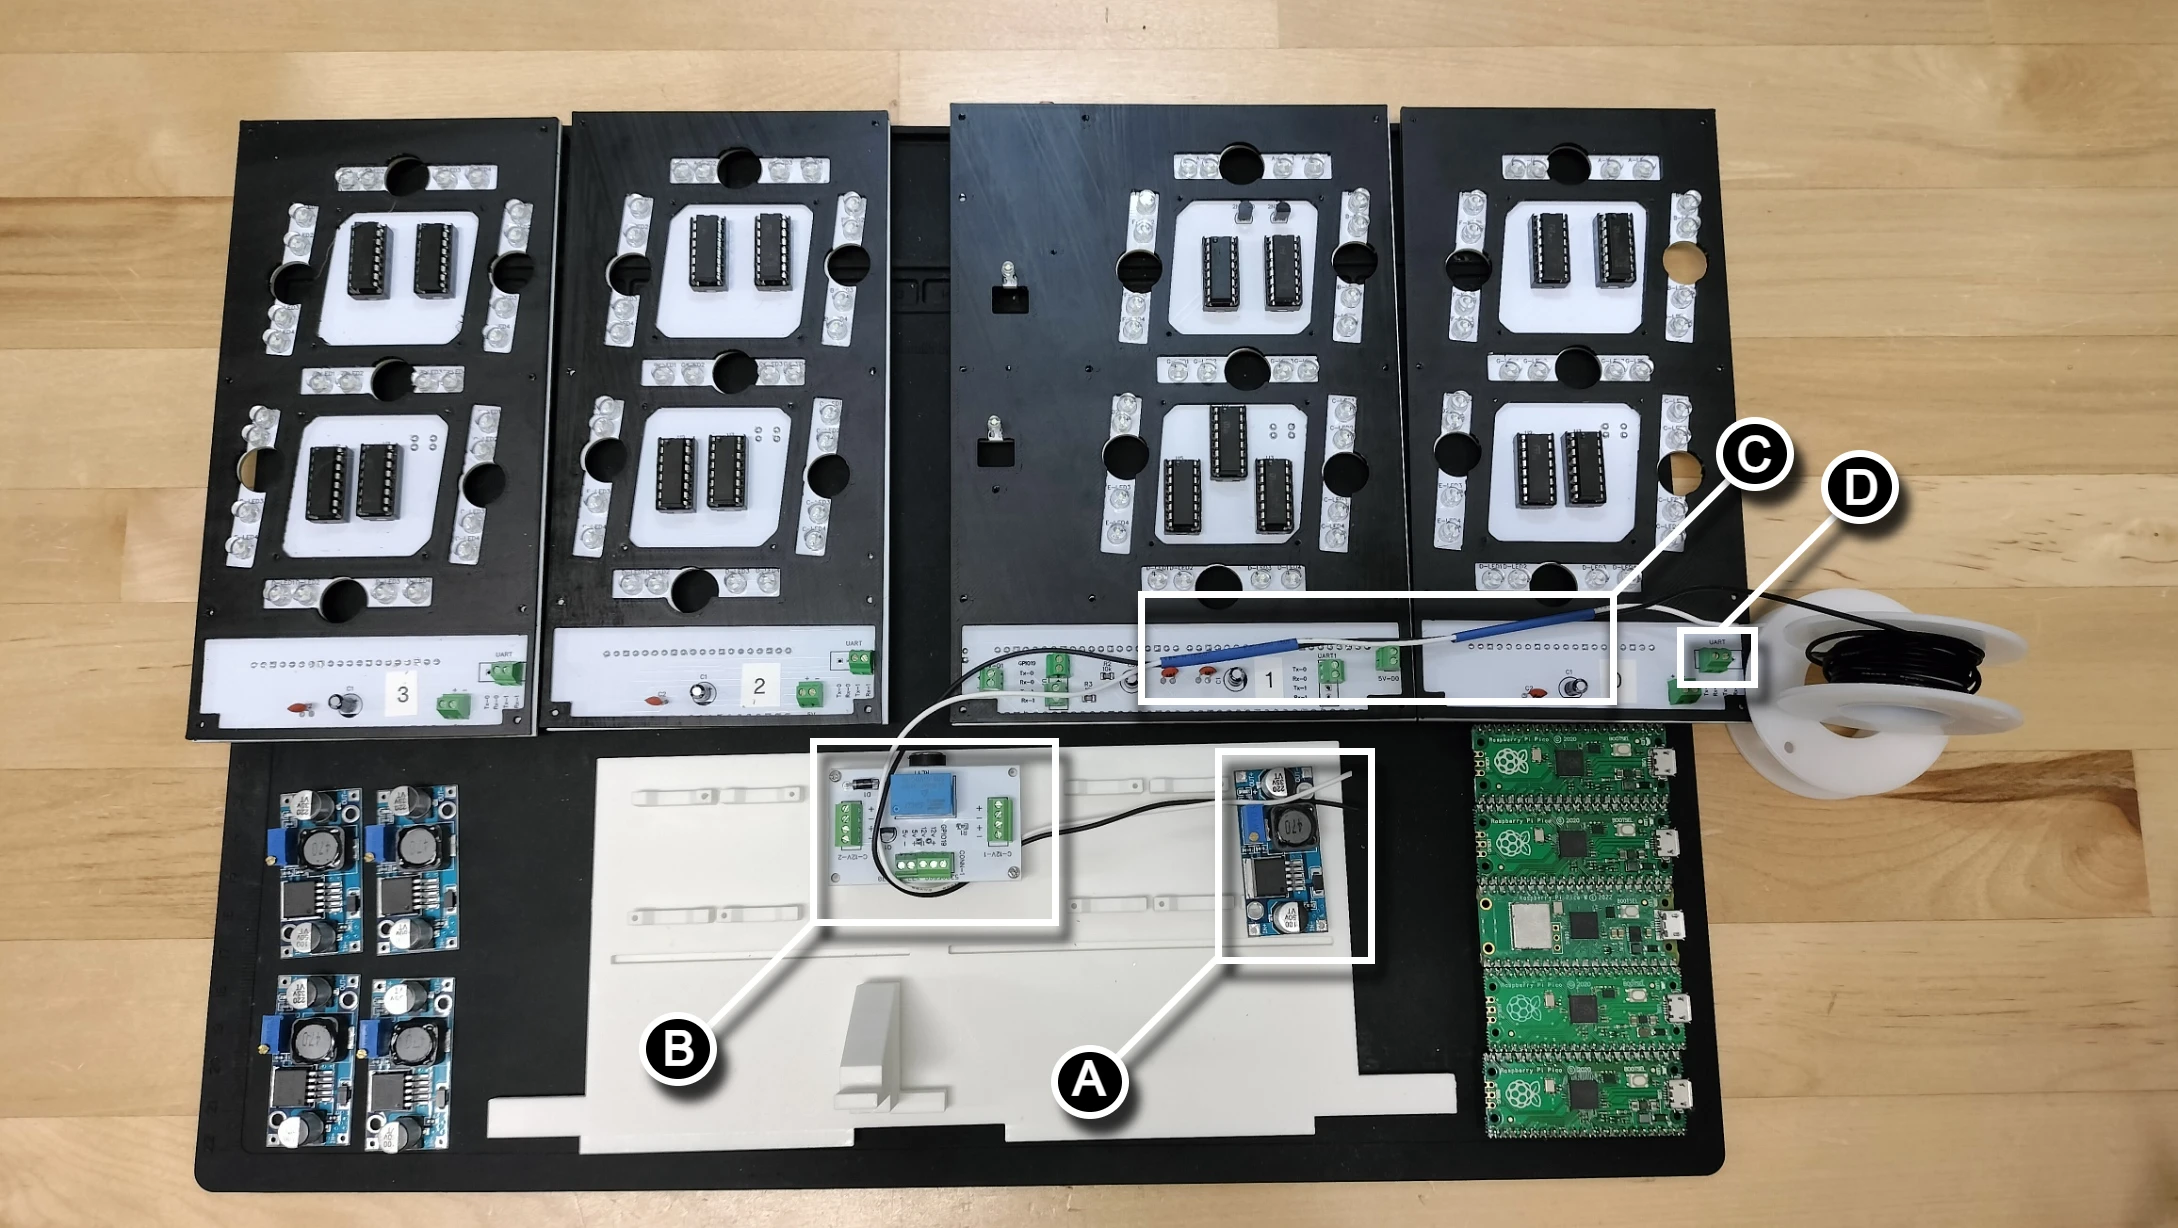
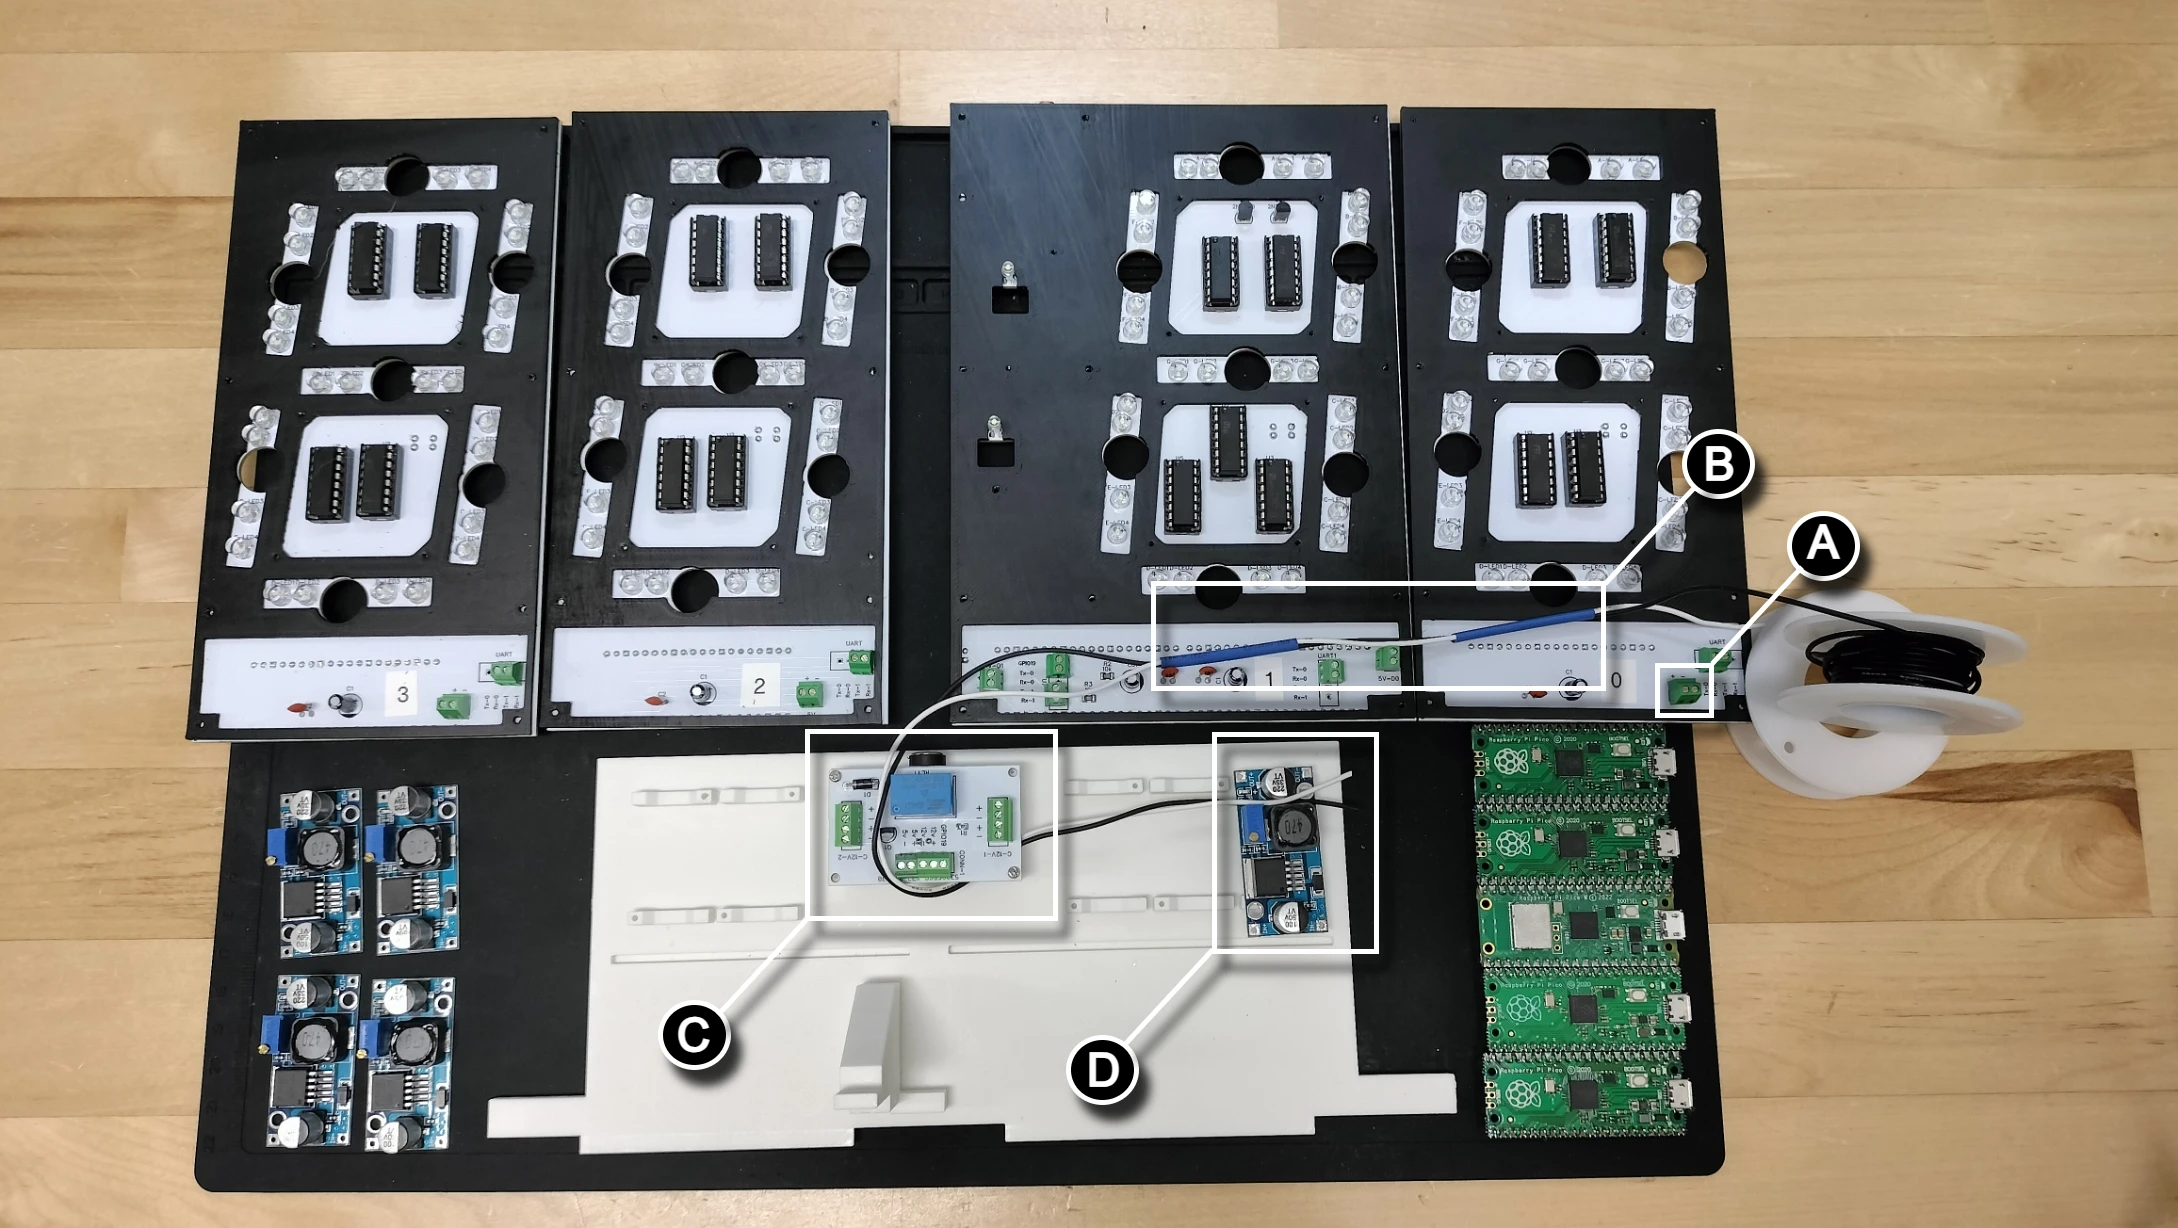
Added more instructions to the buck module and wiring doc.

Changed region(s): [[0.4995, 0.3404, 0.9054, 0.8355], [0.281, 0.5879, 0.4995, 0.8974], [0.4683, 0.8355, 0.5308, 0.9283]]

diff --git a/docs/assembly/buckmodulesandwiring.md b/docs/assembly/buckmodulesandwiring.md
@@ -2,16 +2,16 @@
 
 ## Prerequisites
 
-- 3D print the digit and controller TPU gaskets
+- 3D print the Digit and controller TPU gaskets
 
 ## PCB and Stand Layout
 
 This section ensures wiring for the PCBs are oriented for the mounting of the buck modules and wiring.
 
 1. Remove the Raspberry Pi Pico and Pico W 2040 from the PCBs. We'll add these later when it is safe to do so.
-1. Lay the PCBs face up with digit 0 on the far right and digit 3 on the far left. Position the stand below the PCBs so the barrel jack is between the controller/digit 1 PCB and digit 2 PCB.
+1. Lay the PCBs face up with Digit 0 on the far right and Digit 3 on the far left. Position the stand below the PCBs so the barrel jack is between the controller/Digit 1 PCB and Digit 2 PCB.
 ![buckmodulesandwiring-1](../img/buckmoduleassembly/buckmoduleassembly-1.webp)
-1. Place the TPU gaskets on the PCBs. Note the TPU gasket for digit 2 differs slightly from digit 0 and 3 gaskets.
+1. Place the TPU gaskets on the PCBs. Note the TPU gasket for Digit 2 differs slightly from Digit 0 and 3 gaskets.
 ![buckmodulesandwiring-2](../img/buckmoduleassembly/buckmoduleassembly-2.webp)
 
 ## Wiring the Buck Modules
@@ -19,14 +19,21 @@ This section ensures wiring for the PCBs are oriented for the mounting of the bu
 !!! warning
     Use anti static mats and ESD wristband and grounding wire for the remainder of the Kinetic Display electronics assembly.
 
-This section details wiring the buck converter to the PCBs. Each module must be calibrated to have a 5.0v to 5.1v output. The wiring of the buck module starts with digit 0 on the far right, digit 1, the colons/controller, then digit 3 on the far left followed by digit 2.
+This section details wiring the buck converter to the PCBs. The buck converter module has an `In +` and `In -` on one side for the 12v input, and an `Out +` and `Out -` on the opposite side for the converted 5v output. The display uses only the 5v outputs. This section will also cover how to calibrate the variable buck module to provide 5.0v to 5.1v output.
 
+1. Following the picture below, place a buck converter module for Digit 0 on the rightmost support on the display stand. Strip 3mm of insulation from the black and white 28 AWG wire while on the roll starting then tin the stripped end with solder. Starting with the Digit 0 PCB, **(A)** Route the two wires from the 5v block terminal. **(B)** Add two 3cm sections of heat shrink on the two wires then **(C)** continue routing the wire around the relay, under the power management PCB and through the port on the PCB stand. **(D)** Finish unwinding the wire when you reach the end of buck module as shown in the picture. Now that the length of wire is known from its route, snip off the wires next to the block terminal **(A)**. Strip 3mm of insulation then tin the stripped end with solder. Connect the white wire to the `+` on the `5v` block terminal and the black wire onto the `-`.
 ![buckmodulesandwiring-3](../img/buckmoduleassembly/buckmoduleassembly-3.webp)
+1. Following the picture below, turn the buck module over to its backside and solder the white wire onto the `Out +` pad and the black wire onto the `Out -` pad.
 ![buckmodulesandwiring-4](../img/buckmoduleassembly/buckmoduleassembly-4.webp)
+1. Following the picture below, turn the buck module 180 degrees while having its backside facing up. Strip 3mm of insulation from the black and white 28 AWG wire while on the roll starting then tin the stripped end with solder. Solder the white wire onto the buck module's `In +` pad and the black wire onto the `In -` pad.
 ![buckmodulesandwiring-5](../img/buckmoduleassembly/buckmoduleassembly-5.webp)
+1. Turn the buck module over and secure it with 1.7 x 6mm self tapping screws onto the rightmost module supports on the display stand.
 ![buckmodulesandwiring-6](../img/buckmoduleassembly/buckmoduleassembly-6.webp)
+1. Route the white and black wire to the power management PCB `C-12v-1` block terminal, provide about 10mm extra length in the wire before cutting them. Strip 3mm of insulation then tin the stripped end with solder. Connect the white wire to the `+` on the `C-12v-1` and the black wire onto the `-`.
 ![buckmodulesandwiring-7](../img/buckmoduleassembly/buckmoduleassembly-7.webp)
+1. Following the picture below, place a buck converter module for Digit 1 to the left of the Digit 0 module. Strip 3mm of insulation from the black and white 28 AWG wire while on the roll starting then tin the stripped end with solder. Starting with the Digit 1 PCB, **(A)** Route the two wires from the 5v block terminal. **(B)** Add one 3cm section of heat shrink on the two wires then **(C)** continue routing the wire around the relay, under the power management PCB and through the port on the PCB stand. **(D)** Finish unwinding the wire when you reach the end of second buck module as shown in the picture. Now that the length of wire is known from its route, snip off the wires next to the block terminal **(A)**. Strip 3mm of insulation then tin the stripped end with solder. Connect the white wire to the `+` on the `5v` block terminal and the black wire onto the `-`.
 ![buckmodulesandwiring-8](../img/buckmoduleassembly/buckmoduleassembly-8.webp)
+1. Following the picture below, turn the buck module over to its backside and solder the white wire onto the `Out +` pad and the black wire onto the `Out -` pad.
 ![buckmodulesandwiring-9](../img/buckmoduleassembly/buckmoduleassembly-9.webp)
+1. Follow the previous steps 3-5 and connect the 12v black and white wire into the next available block terminals on `C-12v-1`. See the picture below for the assembled Digit 1 buck module.
 ![buckmodulesandwiring-10](../img/buckmoduleassembly/buckmoduleassembly-10.webp)
-
